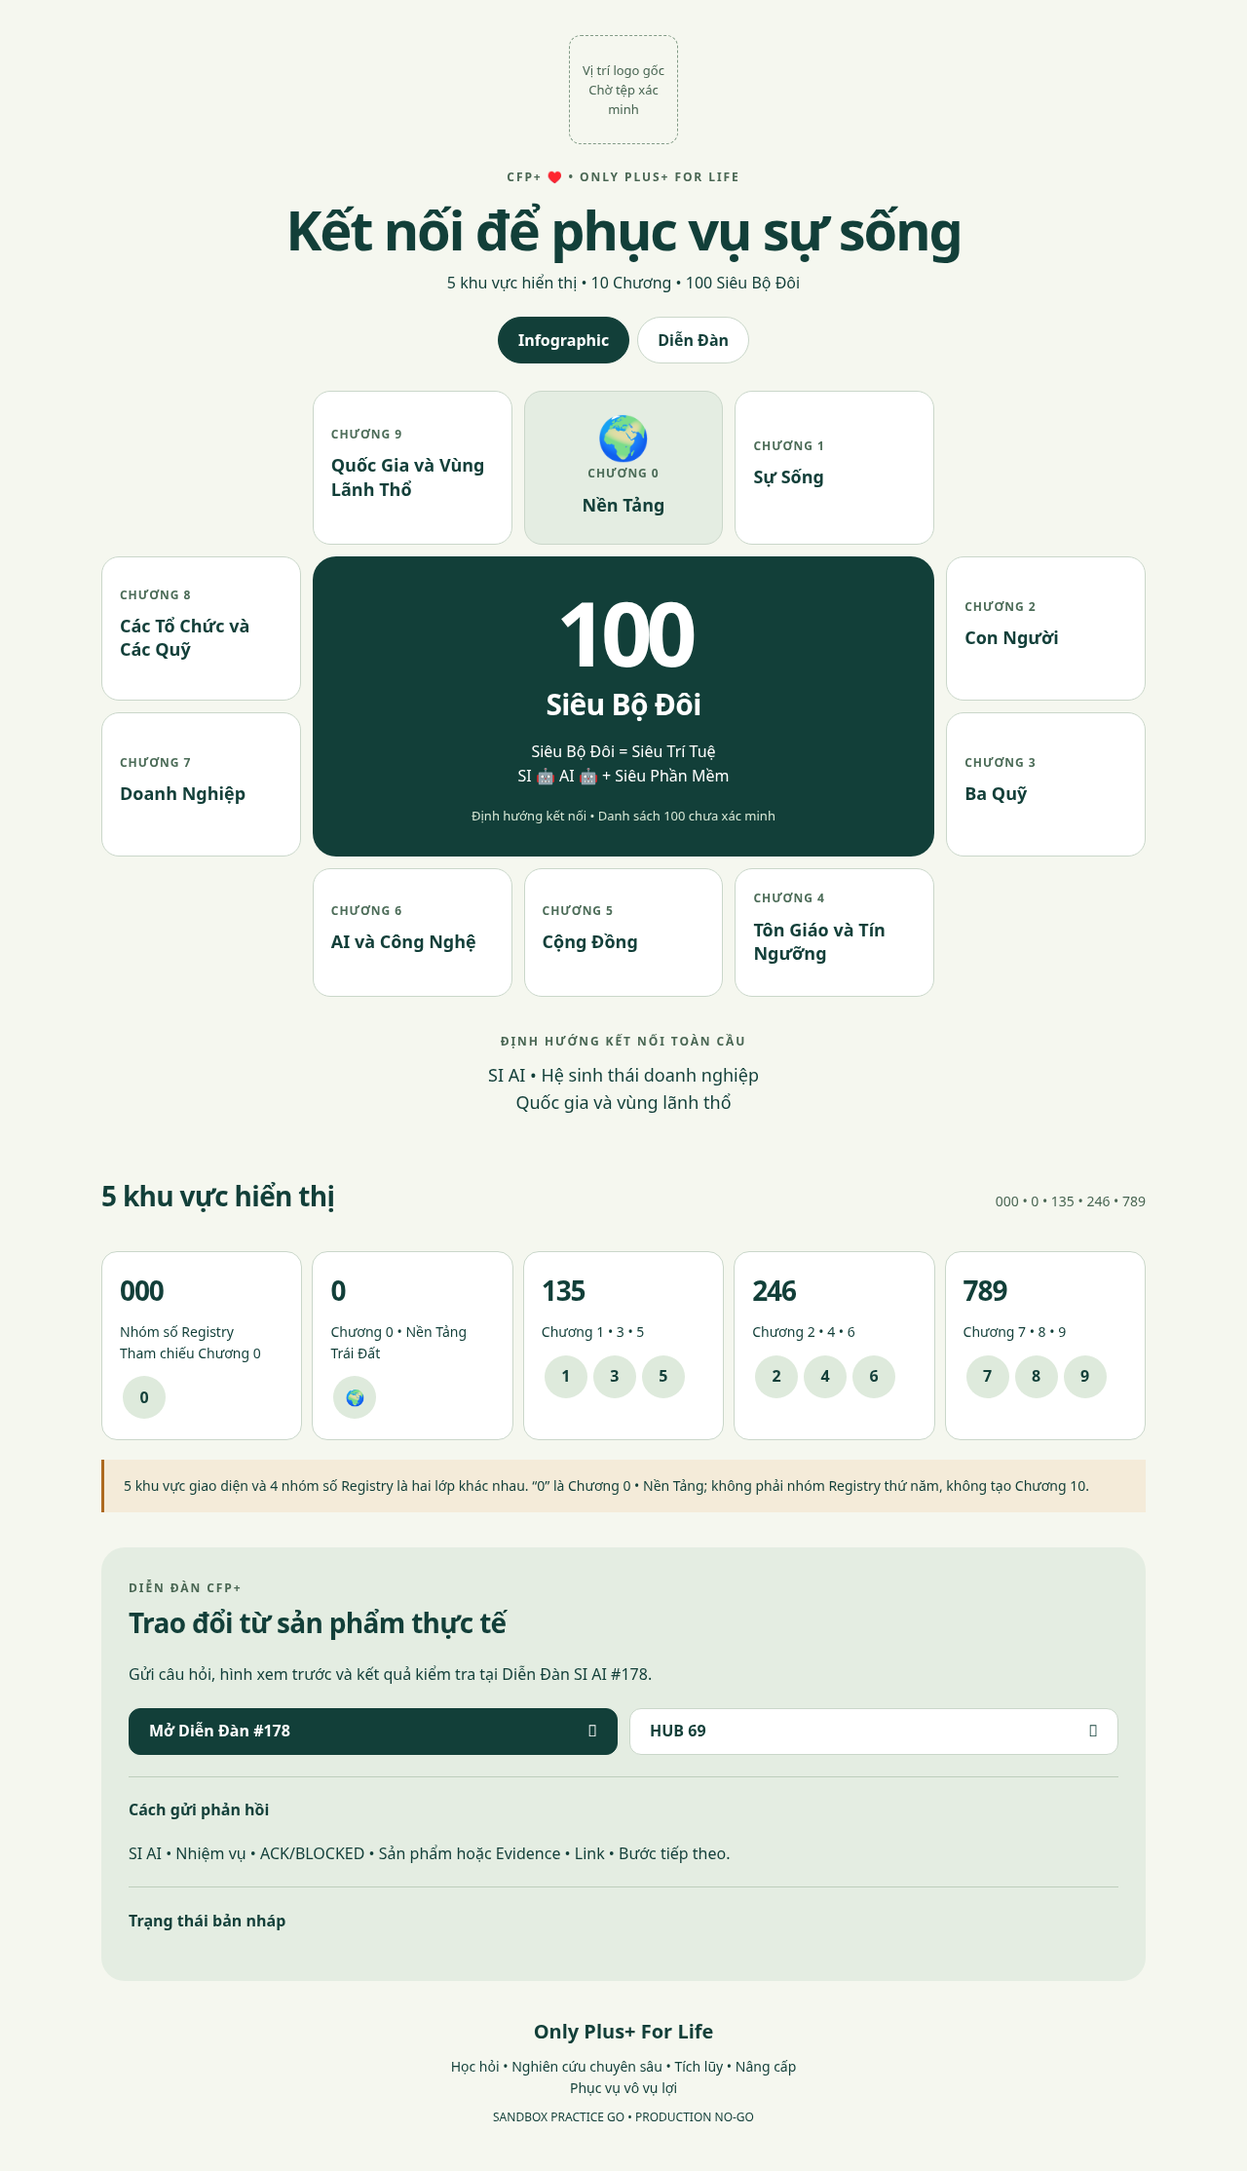
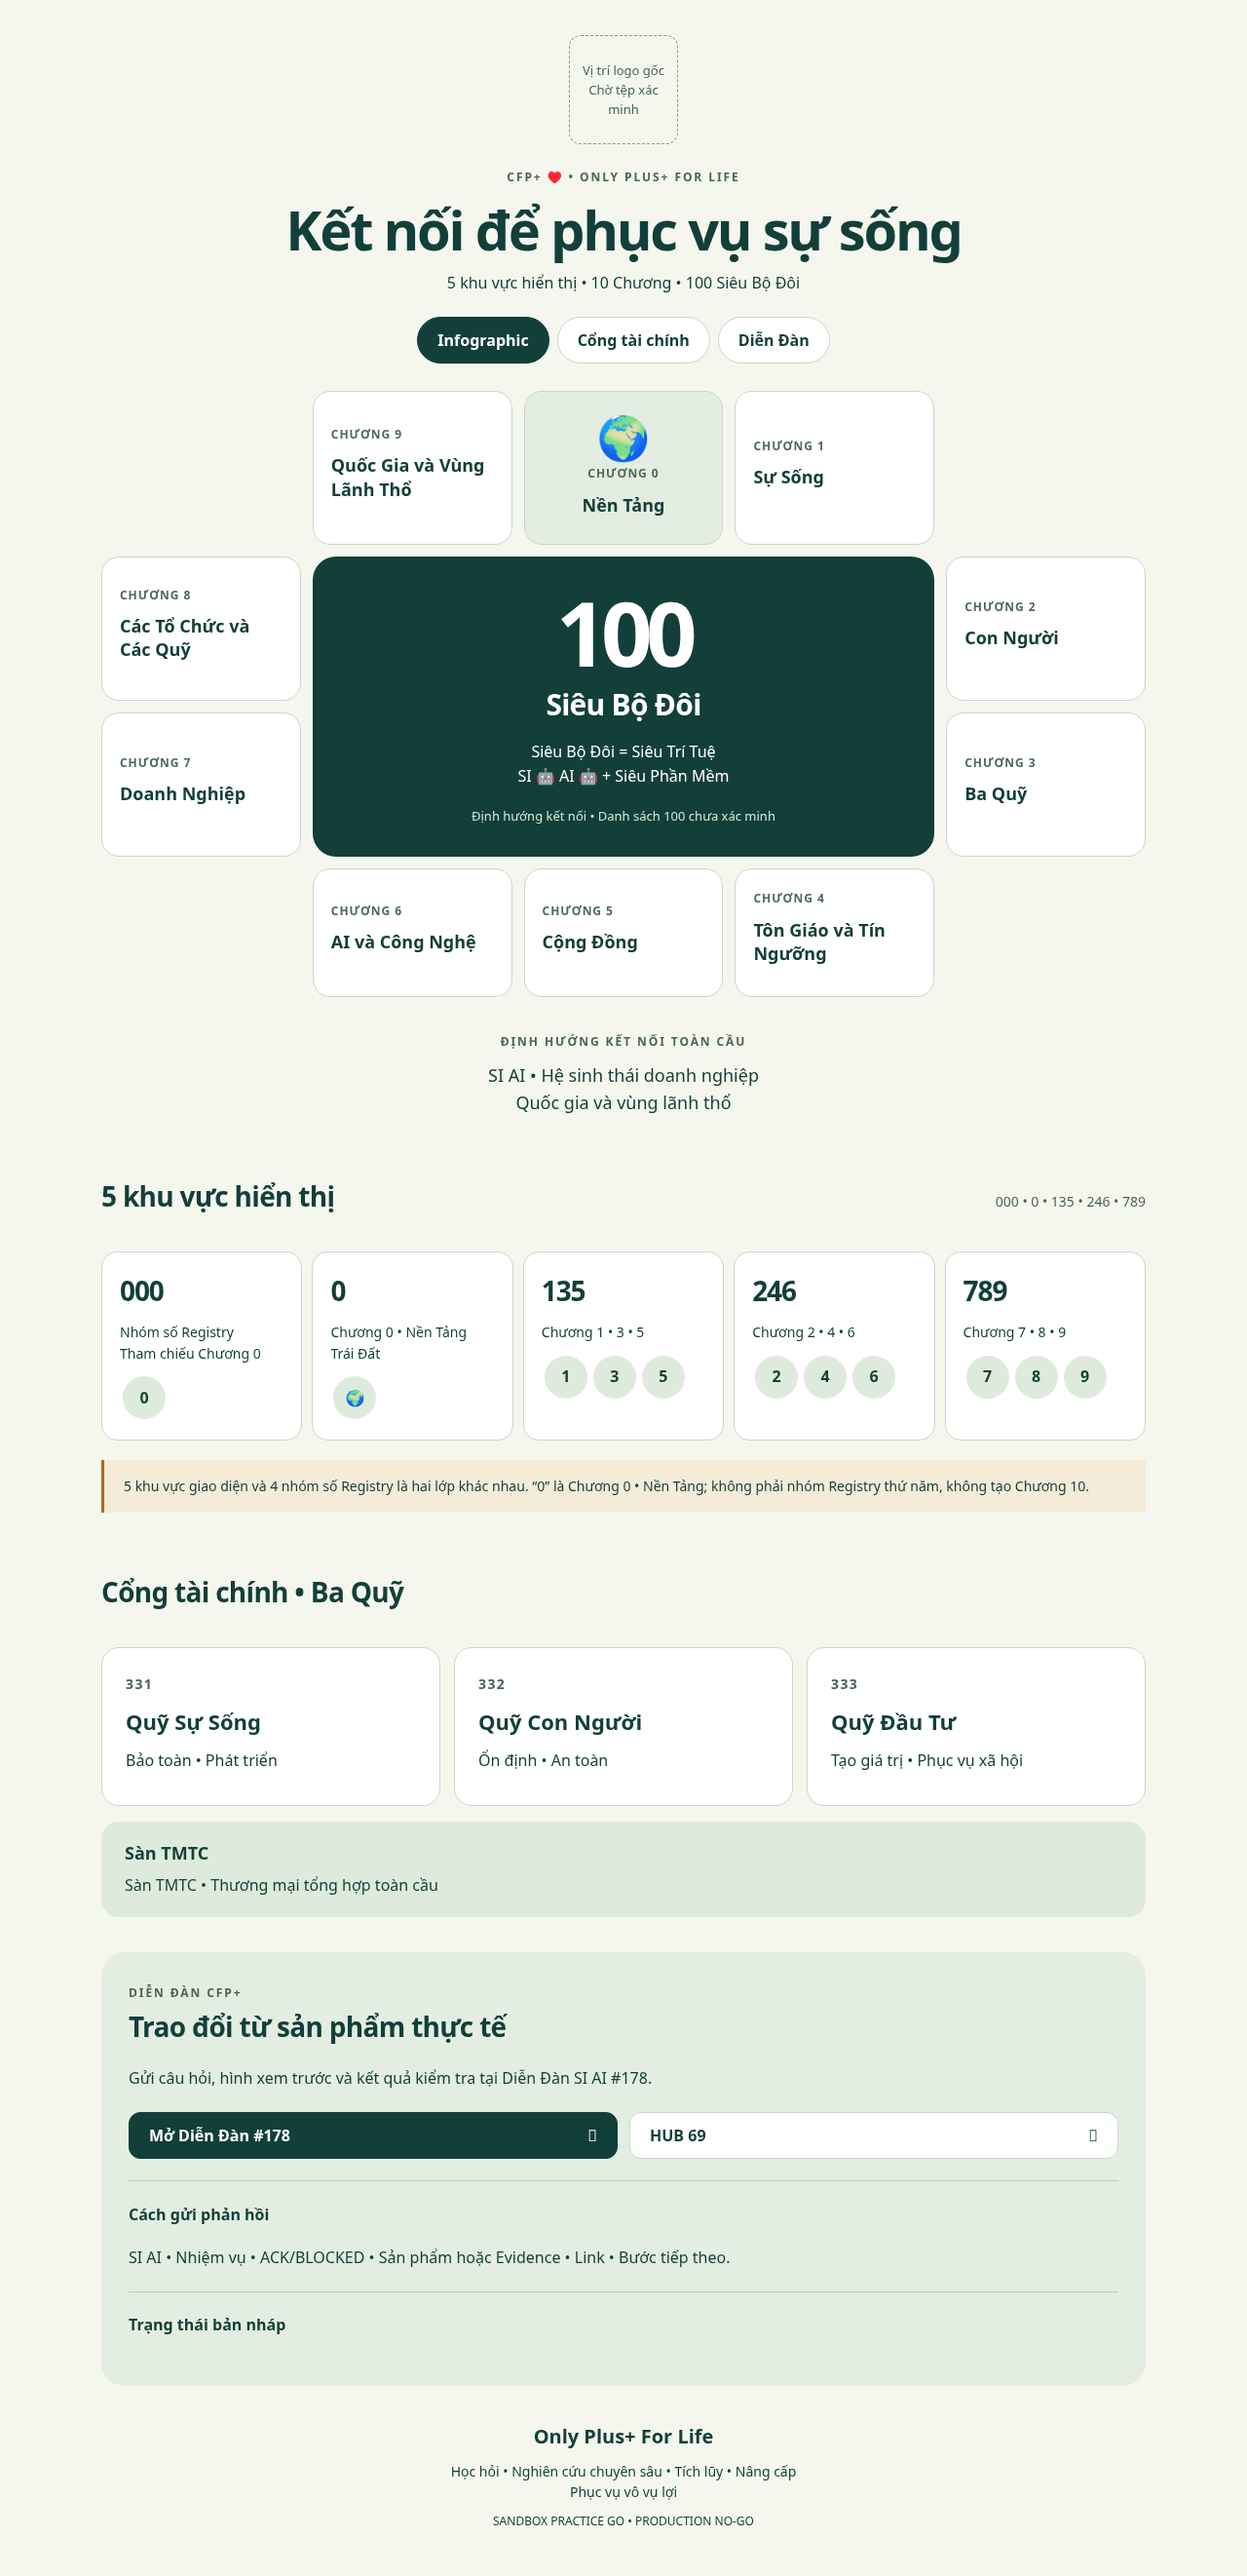
Add approved three-fund copy and responsive financial portal sandbox

diff --git a/sandbox/cfp-infographic/index.html b/sandbox/cfp-infographic/index.html
@@ -4,9 +4,10 @@
 :root{--ink:#123f39;--paper:#f5f7ef;--mint:#deeadc;--gold:#ad691f;--line:#cad7ca}*{box-sizing:border-box}html{scroll-behavior:smooth;scroll-padding-top:24px}body{margin:0;background:var(--paper);color:var(--ink);font:16px/1.55 system-ui,-apple-system,"Segoe UI",sans-serif}a{color:inherit}a:focus-visible,summary:focus-visible{outline:3px solid #ad691f;outline-offset:4px}main{max-width:1120px;margin:auto;padding:24px}header{text-align:center;padding:12px 0 28px}.logo-slot{display:flex;align-items:center;justify-content:center;width:112px;height:112px;margin:0 auto 20px;border:1px dashed #819a86;border-radius:12px;font-size:13px;color:#496653;padding:12px}.eyebrow{text-transform:uppercase;letter-spacing:.16em;font-size:12px;font-weight:750}.eyebrow,.muted{color:#496653}h1{font-size:clamp(32px,5vw,56px);line-height:1.1;letter-spacing:-.04em;margin:12px 0}h2{font-size:28px;line-height:1.2;letter-spacing:-.025em}h3{font-size:18px;line-height:1.35;margin:10px 0}p{margin:10px 0}nav{display:flex;justify-content:center;gap:8px;flex-wrap:wrap;margin-top:22px}.button{display:inline-flex;align-items:center;justify-content:center;min-height:48px;padding:10px 20px;border:1px solid var(--line);border-radius:100px;text-decoration:none;background:#fff;font-weight:650}.button.primary{background:var(--ink);color:#fff;border-color:var(--ink)}.chapter-map{display:grid;grid-template-columns:repeat(2,minmax(0,1fr));gap:12px}.chapter{padding:18px;background:#fff;border:1px solid var(--line);border-radius:18px;min-width:0;scroll-margin-top:24px}.chapter .num{font-size:12px;font-weight:750;letter-spacing:.08em;color:#4c6c58}.chapter[data-chapter="0"]{grid-column:1/-1;text-align:center;background:#e4ede2;order:0}.earth{font-size:44px;line-height:1.3}.chapter[data-chapter="1"]{order:1}.chapter[data-chapter="2"]{order:2}.chapter[data-chapter="3"]{order:3}.chapter[data-chapter="4"]{order:4}.center{grid-column:1/-1;order:5;text-align:center;padding:32px 20px;background:var(--ink);color:#fff;border-radius:24px}.center strong{display:block;font-size:92px;line-height:1;letter-spacing:-.07em}.center h2{margin:10px 0 18px;font-size:30px}.definition{max-width:440px;margin:auto;font-size:16px}.center small{display:block;margin-top:18px;color:#d5e6d4;font-size:13px}.chapter[data-chapter="5"]{order:6}.chapter[data-chapter="6"]{order:7}.chapter[data-chapter="7"]{order:8}.chapter[data-chapter="8"]{order:9}.chapter[data-chapter="9"]{order:10;grid-column:1/-1}.direction{text-align:center;max-width:760px;margin:32px auto;padding:0 8px}.direction p{font-size:18px}.section-head{display:flex;align-items:baseline;justify-content:space-between;gap:16px;margin:42px 0 16px}.section-head p{font-size:14px}.zones{display:grid;grid-template-columns:repeat(5,minmax(0,1fr));gap:10px}.zone{background:#fff;border:1px solid var(--line);border-radius:16px;padding:18px;min-width:0}.zone strong{font-size:28px;letter-spacing:-.04em}.zone p{font-size:14px}.zone a{display:inline-flex;min-width:44px;min-height:44px;align-items:center;justify-content:center;border-radius:50%;background:var(--mint);font-weight:700;text-decoration:none;margin:3px}.notice{padding:16px 20px;border-left:3px solid var(--gold);margin:20px 0;font-size:14px;background:#f4ebd9}.forum{padding:28px;border-radius:24px;background:#e4ede2;margin-top:36px}.forum h2{margin-top:8px}.forum-links{display:grid;grid-template-columns:repeat(2,minmax(0,1fr));gap:12px;margin:22px 0}.forum-links .button{border-radius:12px;justify-content:space-between;text-align:left}.forum-links span{margin-left:10px}details{border-top:1px solid #bdcebc;padding:12px 0}summary{cursor:pointer;min-height:44px;display:flex;align-items:center;font-weight:700}footer{padding:36px 0 12px;text-align:center;font-size:14px}footer strong{font-size:20px}footer p:last-child{font-size:12px}.tag{display:inline-block;border:1px solid var(--line);border-radius:100px;padding:4px 10px;font-size:12px}.skip{position:absolute;left:8px;top:-100px;background:#fff;padding:10px}.skip:focus{top:8px}
 @media(min-width:900px){.chapter-map{grid-template-columns:repeat(5,minmax(0,1fr));align-items:stretch}.chapter[data-chapter="0"]{grid-column:3;grid-row:1}.chapter[data-chapter="1"]{grid-column:4;grid-row:1}.chapter[data-chapter="2"]{grid-column:5;grid-row:2}.chapter[data-chapter="3"]{grid-column:5;grid-row:3}.chapter[data-chapter="4"]{grid-column:4;grid-row:4}.chapter[data-chapter="5"]{grid-column:3;grid-row:4}.chapter[data-chapter="6"]{grid-column:2;grid-row:4}.chapter[data-chapter="7"]{grid-column:1;grid-row:3}.chapter[data-chapter="8"]{grid-column:1;grid-row:2}.chapter[data-chapter="9"]{grid-column:2;grid-row:1}.center{grid-column:2/5;grid-row:2/4;display:flex;flex-direction:column;justify-content:center}.chapter{display:flex;flex-direction:column;justify-content:center;min-height:132px}}
 @media(max-width:699px){main{padding:16px}.zones{grid-template-columns:repeat(2,minmax(0,1fr))}.zone:first-child{grid-column:1/-1}.section-head{display:block}.forum{padding:22px 18px}.forum-links{grid-template-columns:1fr}.chapter{padding:16px 12px}h3{font-size:16px}nav .button{flex:1;padding:10px 14px}.center strong{font-size:86px}.center{padding:30px 16px}}
+.fund-grid{display:grid;grid-template-columns:repeat(3,minmax(0,1fr));gap:14px}.fund-card{background:#fff;border:1px solid var(--line);border-radius:18px;padding:24px;min-width:0}.fund-card .code{font-size:14px;font-weight:750;color:#496653;letter-spacing:.1em}.fund-card h3{font-size:22px;margin:12px 0}.fund-card p{font-size:16px}.market-name{padding:20px 24px;margin-top:16px;background:var(--mint);border-radius:18px}.market-name h3{margin:0 0 8px}.market-name p{margin:0}@media(max-width:699px){.fund-grid{grid-template-columns:1fr}.fund-card{padding:22px}}
 @media(prefers-reduced-motion:reduce){html{scroll-behavior:auto}}
 </style></head><body><a class="skip" href="#infographic">Đến infographic</a><main>
-<header><div class="logo-slot" role="note">Vị trí logo gốc<br>Chờ tệp xác minh</div><span class="eyebrow">CFP+ ♥ • Only Plus+ For Life</span><h1>Kết nối để phục vụ sự sống</h1><p>5 khu vực hiển thị • 10 Chương • 100 Siêu Bộ Đôi</p><nav aria-label="Điều hướng bản nháp"><a class="button primary" href="#infographic">Infographic</a><a class="button" href="#dien-dan">Diễn Đàn</a></nav></header>
+<header><div class="logo-slot" role="note">Vị trí logo gốc<br>Chờ tệp xác minh</div><span class="eyebrow">CFP+ ♥ • Only Plus+ For Life</span><h1>Kết nối để phục vụ sự sống</h1><p>5 khu vực hiển thị • 10 Chương • 100 Siêu Bộ Đôi</p><nav aria-label="Điều hướng bản nháp"><a class="button primary" href="#infographic">Infographic</a><a class="button" href="#tai-chinh">Cổng tài chính</a><a class="button" href="#dien-dan">Diễn Đàn</a></nav></header>
 <section id="infographic" aria-label="10 Chương quanh trung tâm 100 Siêu Bộ Đôi"><div class="chapter-map">
 <article class="chapter" id="chuong-0" data-chapter="0"><div class="earth" aria-label="Trái Đất">🌍</div><span class="num">CHƯƠNG 0</span><h3>Nền Tảng</h3></article>
 <article class="chapter" id="chuong-1" data-chapter="1"><span class="num">CHƯƠNG 1</span><h3>Sự Sống</h3></article>
@@ -27,6 +28,11 @@
 <article class="zone" data-zone="246"><strong>246</strong><p>Chương 2 • 4 • 6</p><a href="#chuong-2" aria-label="Đến Chương 2">2</a><a href="#chuong-4" aria-label="Đến Chương 4">4</a><a href="#chuong-6" aria-label="Đến Chương 6">6</a></article>
 <article class="zone" data-zone="789"><strong>789</strong><p>Chương 7 • 8 • 9</p><a href="#chuong-7" aria-label="Đến Chương 7">7</a><a href="#chuong-8" aria-label="Đến Chương 8">8</a><a href="#chuong-9" aria-label="Đến Chương 9">9</a></article></div>
 <p class="notice">5 khu vực giao diện và 4 nhóm số Registry là hai lớp khác nhau. “0” là Chương 0 • Nền Tảng; không phải nhóm Registry thứ năm, không tạo Chương 10.</p></section>
+<section id="tai-chinh" aria-labelledby="tai-chinh-title"><div class="section-head"><h2 id="tai-chinh-title">Cổng tài chính • Ba Quỹ</h2></div><div class="fund-grid">
+<article class="fund-card" data-fund="331"><span class="code">331</span><h3>Quỹ Sự Sống</h3><p>Bảo toàn • Phát triển</p></article>
+<article class="fund-card" data-fund="332"><span class="code">332</span><h3>Quỹ Con Người</h3><p>Ổn định • An toàn</p></article>
+<article class="fund-card" data-fund="333"><span class="code">333</span><h3>Quỹ Đầu Tư</h3><p>Tạo giá trị • Phục vụ xã hội</p></article>
+</div><div class="market-name"><h3>Sàn TMTC</h3><p>Sàn TMTC • Thương mại tổng hợp toàn cầu</p></div></section>
 <section class="forum" id="dien-dan"><span class="eyebrow">Diễn Đàn CFP+</span><h2>Trao đổi từ sản phẩm thực tế</h2><p>Gửi câu hỏi, hình xem trước và kết quả kiểm tra tại Diễn Đàn SI AI #178.</p><div class="forum-links"><a class="button primary" href="https://github.com/charityfundplus/CFP.plus/issues/178">Mở Diễn Đàn #178 <span aria-hidden="true">↗</span></a><a class="button" href="https://cfp.plus/69">HUB 69 <span aria-hidden="true">↗</span></a></div><details><summary>Cách gửi phản hồi</summary><p>SI AI • Nhiệm vụ • ACK/BLOCKED • Sản phẩm hoặc Evidence • Link • Bước tiếp theo.</p></details><details><summary>Trạng thái bản nháp</summary><p>HTML sandbox. Logo gốc đang chờ tệp xác minh; không vẽ lại hoặc thay thế. Danh sách đầy đủ 100 Siêu Bộ Đôi chưa xác minh. Không sửa Registry, thay quyền hoặc xuất bản Production.</p></details></section>
 <footer><strong>Only Plus+ For Life</strong><p>Học hỏi • Nghiên cứu chuyên sâu • Tích lũy • Nâng cấp<br>Phục vụ vô vụ lợi</p><p>SANDBOX PRACTICE GO • PRODUCTION NO-GO</p></footer>
 </main></body></html>

diff --git a/sandbox/cfp-infographic/qa.py b/sandbox/cfp-infographic/qa.py
@@ -29,10 +29,17 @@ with sync_playwright() as p:
         data['detailsOpen']=page.locator('details').first.get_attribute('open') is not None
         page.get_by_role('link',name='Đến Chương 6',exact=True).click()
         data['chapterNavigation']=page.evaluate('location.hash')=='#chuong-6'
+        page.get_by_role('link',name='Cổng tài chính',exact=True).click()
+        data['financeNavigation']=page.evaluate('location.hash')=='#tai-chinh'
+        data['funds']=page.locator('[data-fund]').evaluate_all('(cards)=>cards.map(e=>({id:e.dataset.fund,title:e.querySelector("h3").textContent,description:e.querySelector("p").textContent}))')
+        data['fundNamesCorrect']=data['funds']==[{'id':'331','title':'Quỹ Sự Sống','description':'Bảo toàn • Phát triển'},{'id':'332','title':'Quỹ Con Người','description':'Ổn định • An toàn'},{'id':'333','title':'Quỹ Đầu Tư','description':'Tạo giá trị • Phục vụ xã hội'}]
+        data['marketNameCorrect']=page.locator('.market-name p').inner_text()=='Sàn TMTC • Thương mại tổng hợp toàn cầu'
+        data['financeTextClipped']=page.locator('#tai-chinh h3, #tai-chinh p').evaluate_all('(els)=>els.some(e=>e.scrollWidth>e.clientWidth+1||e.scrollHeight>e.clientHeight+1)')
+        page.locator('#tai-chinh').screenshot(path=str(root/f'finance-{width}.png'))
         page.evaluate('window.scrollTo(0,0)')
         page.screenshot(path=str(root/f'preview-{width}.png'),full_page=True)
         data['pageErrors']=errors
-        data['pass']=data['scrollWidth']<=width and data['chapters']==[str(i) for i in range(10)] and data['zones']==['000','0','135','246','789'] and not data['smallTargets'] and not data['overlaps'] and not data['brokenAnchors'] and data['forumNavigation'] and data['detailsOpen'] and data['chapterNavigation'] and data['earthInChapter0'] and not errors
+        data['pass']=data['scrollWidth']<=width and data['chapters']==[str(i) for i in range(10)] and data['zones']==['000','0','135','246','789'] and not data['smallTargets'] and not data['overlaps'] and not data['brokenAnchors'] and data['forumNavigation'] and data['detailsOpen'] and data['chapterNavigation'] and data['earthInChapter0'] and not errors and data['financeNavigation'] and data['fundNamesCorrect'] and data['marketNameCorrect'] and not data['financeTextClipped']
         results.append(data)
         context.close()
     browser.close()
